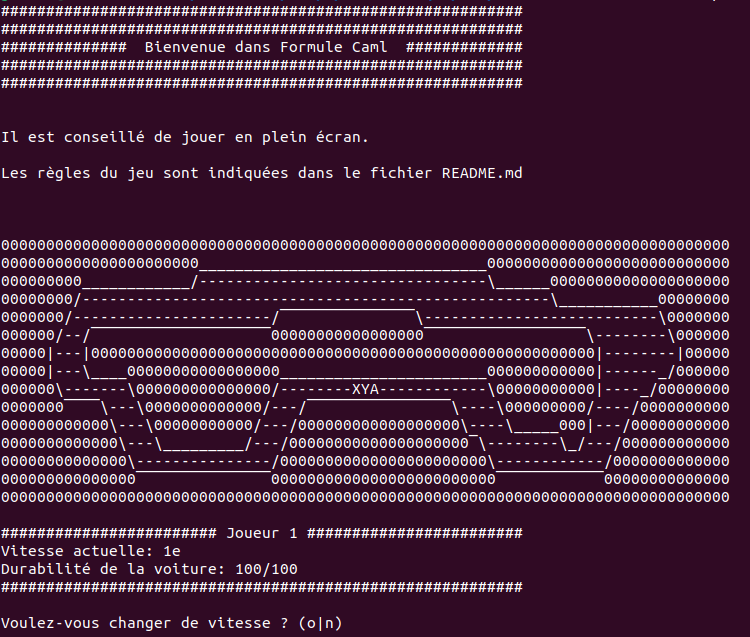
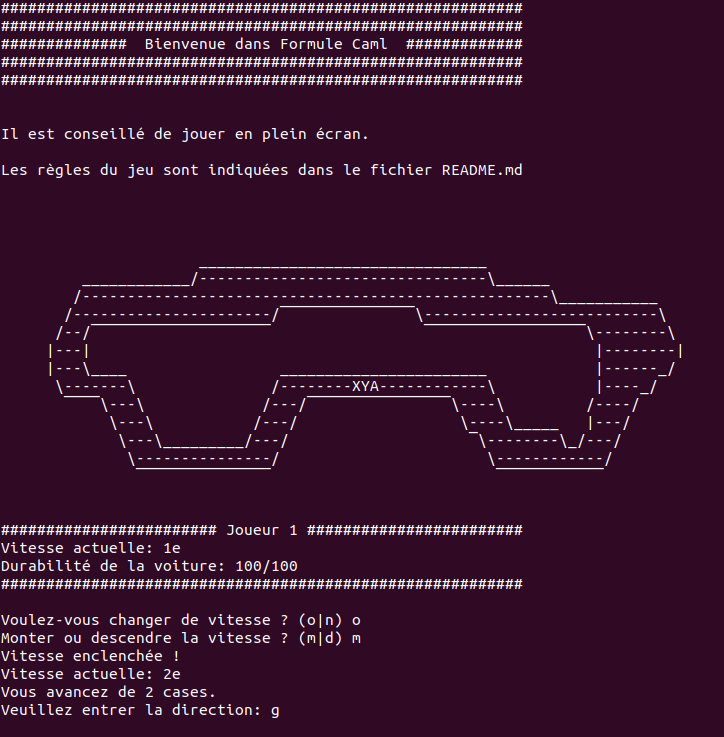
whitespaces instead of zeros

Changed region(s): [[0.0, 0.3579, 0.9724, 1.0], [0.0, 0.0, 0.7293, 0.2983]]

diff --git a/README.md b/README.md
@@ -29,7 +29,7 @@
 
 ## Plateau
 - Les cases où les **déplacements sont possibles** sont uniquement les cases `-` ou la case `D`.
-- Les cases `0` indiquent l'extérieur de la piste.
+- Les cases ` ` indiquent l'extérieur de la piste.
 - Les cases `_`, `/`, `‾`, `\` indiquent les bordures de la piste. Il n'est pas possible d'y aller.
 - La case `A` est uniquement atteignable en venant de la droite.
 - La case `X` est la position du joueur 1.
